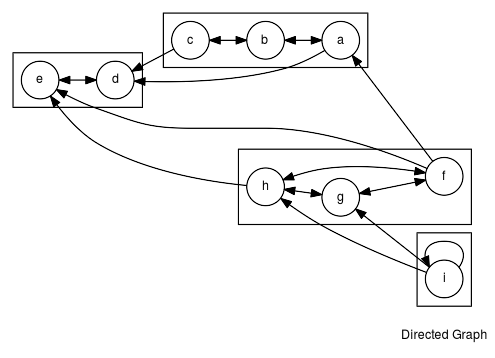
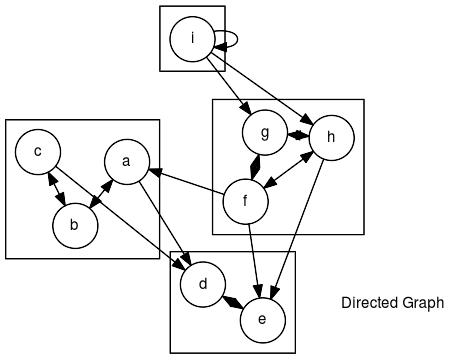
markdown updated

diff --git a/Readme/Tarjan_.md b/Readme/Tarjan_.md
@@ -3,16 +3,60 @@
   
 ***
   
-##  What are SCCS
+##  Keyworks
   
   
->**Strongly Connected Components** can be thought of self-connected cycles within a directed graph where every vertex in a given cycle can reach every other vertex in the same cycle.
+###  What are SCCS
+  
+  
+**Strongly Connected Components** can be thought of self-connected cycles within a directed graph where every vertex in a given cycle can reach every other vertex in the same cycle.
   
 
-![](../assets/fd126763de1bc63208bac44979efdd8f0.png?0.5647150027416308)  
+![](../assets/fd126763de1bc63208bac44979efdd8f0.png?0.5375690334533958)  
   
-##  Low-link Values
+###  Low-link Values
   
   
->The low-link values of a node is the smallest node id reachable from that node when doing a DFS (including itself).
+The low-link values of a node is the smallest node id reachable from that node when doing a DFS (including itself).
+  
+
+![](../assets/fd126763de1bc63208bac44979efdd8f1.png?0.3718434669081958)  
+  
+Low-link value for each node(start from node 0):
+|Node ID         |0 |1 |2 |3 |4 |5 |
+|----------------|--|--|--|--|--|--|
+|Low-link value  |0 |0 |0 |3 |4 |4 |
+  
+>**Important**: Depending on where the DFS starts and which edges are visited the low-link values could be wrong. In the context of Tarjan's SCC algorithm, we maintain an invariant that prevents SCCs to interfere with each others' low-link values.
+  
+###  The Stack Invariant
+  
+  
+To cope with the random traversal order of the DFS, Tarjan's algorithm maintains a set (often as a stack) of valid nodes from which to update low-link values from.
+  
+Nodes are added to the stack(set) of valid nodes as they are explored for the first time.
+  
+Nodes are removed from the stack(set) each time a complete SCC is found. 
+  
+###  New low-link update condition
+  
+  
+If u and v are nodes in a graph and we are currently exploring u then our new low-link update condition is that: to update node u's low-link value to node v's low-link value there has to be a path of edges from u to v and node v must be on the stack.
+  
+Another difference we are going to make to finding all low-link values is that instead of finding low-link values after the fact we are going to update them ==on the fly== during the DFS so we can get a linear **O(V+E)** time complexity.
+  
+##  Overview
+  
+  
+- Mark the id of each node as unvisited.
+  
+- Start DFS. Upon visiting a node assign it an id and a low-link value. Also mark current nodes as visited and add them to a seen stack.
+  
+- On DFS callback, if the previous node is on the stack then min the current node's low-link value with the last node's low-link value[^1].
+  
+- After visiting all neighbors, if the current node started a connected component[^2] then pop nodes off stack until current node is reached.
+  
+[^1]: This allows low-link values to propagate throughout cycles.
+[^2]: A node started a connected compoent if its id equals its low-link value.
+  
   
